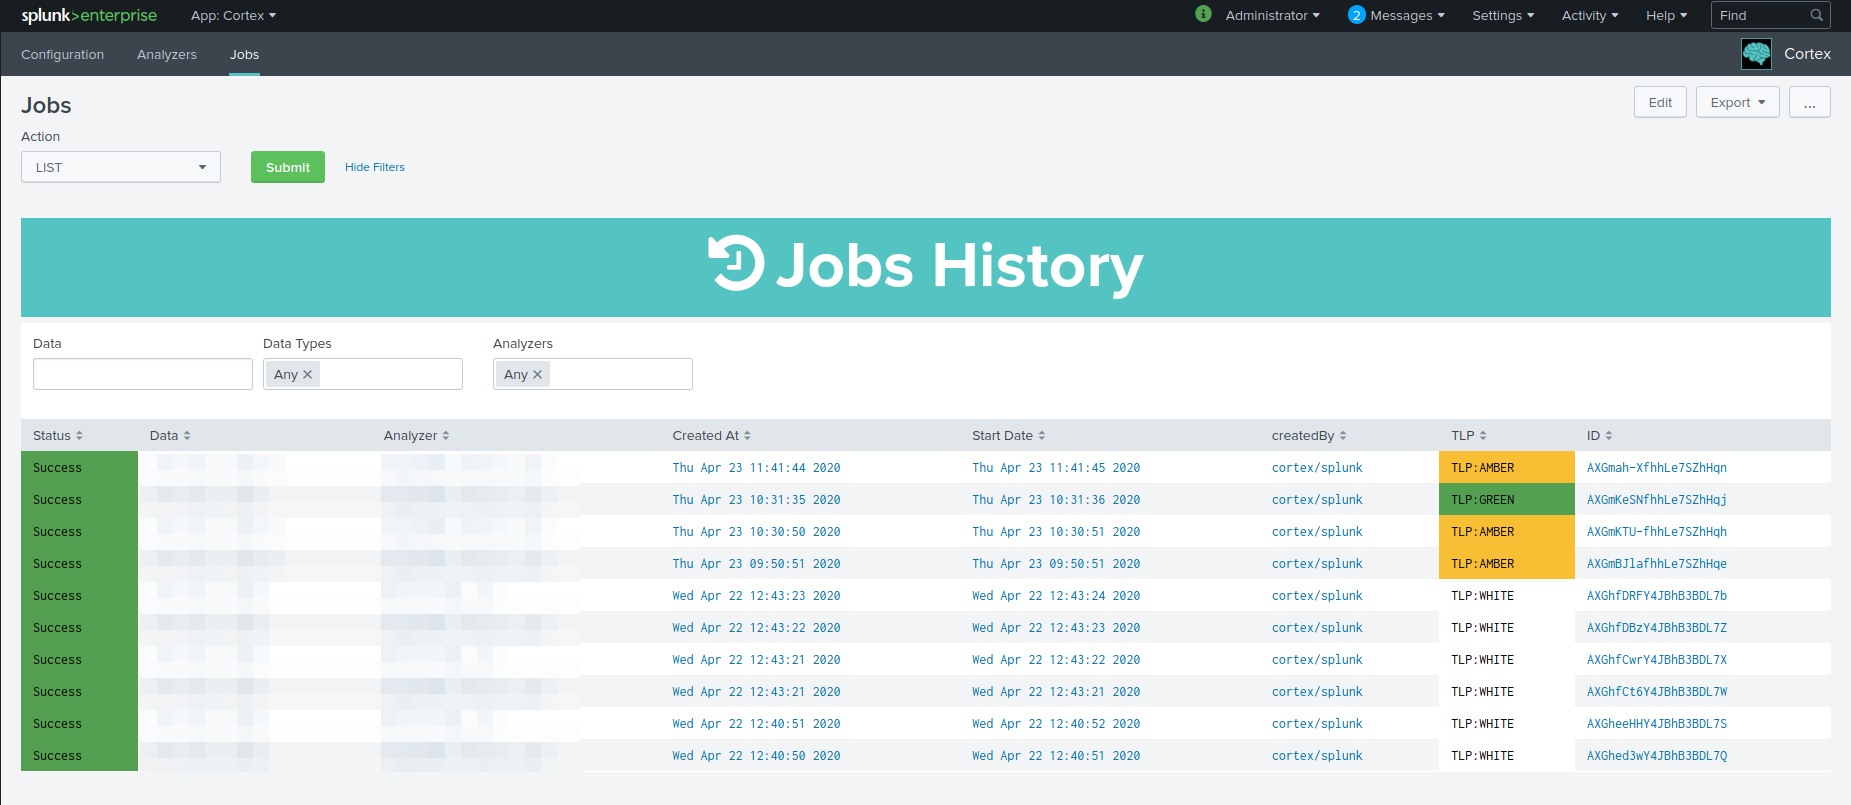
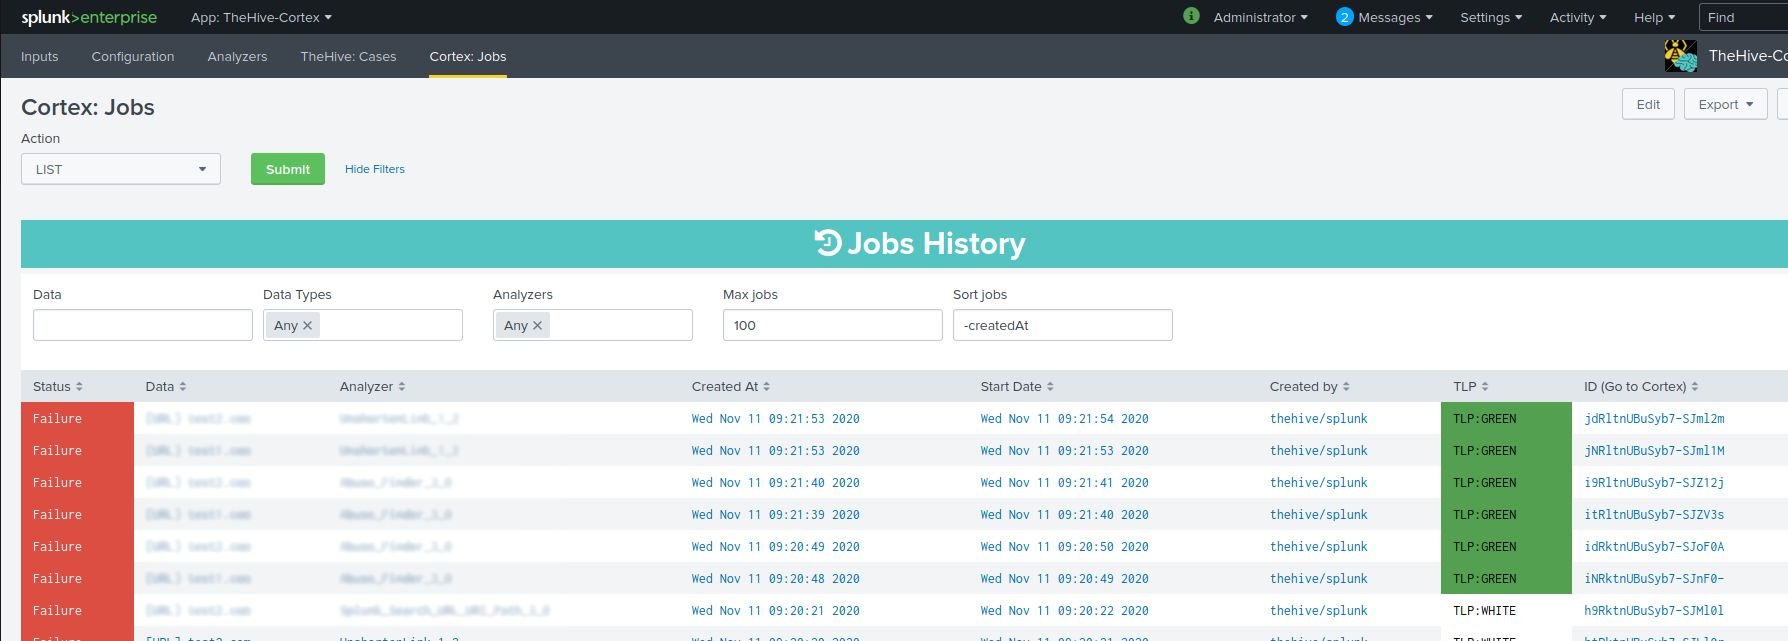
Update documentation

diff --git a/README.md b/README.md
@@ -1,18 +1,24 @@
+
 ![](images/logo.png)
 
 # Table of content
 * [ Introduction ](#introduction)  
-* [ What is Cortex ? ](#what-is-cortex-)
+* [ What is TheHive/Cortex ? ](#what-is-thehivecortex-)
 * [ Use Cases ](#use-cases)
 * [ Installation ](#installation)
 	* [ Requirements ](#requirements)
 	* [ Configuration ](#configuration)
+		* [ Add-on Settings ](#add-on-settings)
+		* [ TheHive ](#thehive)
 		* [ Cortex ](#cortex)
 		* [ Logging ](#logging)
-	* [ Refresh the available analyzers ](#refresh-the-available-analyzers)
+	* [ Refreshing the available analyzers ](#refreshing-the-available-analyzers)
 * [ Usage ](#usage)
-	* [ Cortex "Jobs" dashboard ](#cortex-jobs-dashboard)
-		* [ History ](#history)
+	* ["TheHive: Cases" dashboard](#thehive-cases-dashboard)
+		* [ TheHive History ](#thehive-history)
+		* [ Create a new case ](#create-a-new-case)
+	* [ "Cortex: Jobs" dashboard ](#cortex-jobs-dashboard)
+		* [ Cortex History ](#cortex-history)
 		* [ Run new tasks ](#run-new-tasks)
 	* [ Commands in searches ](#commands-in-searches)
 * [ Support ](#support)
@@ -20,60 +26,96 @@
 * [ Licence ](#licence)
 
 # Introduction
-This TA allows to **add interaction features** between [TheHive or Cortex (TheHive project)](https://thehive-project.org/) and Splunk. It allows to retrieve all tasks in Cortex and to execute new tasks from Splunk, from a search or from a predefined dashboard.
+This TA allows to **add interaction features** between [TheHive or Cortex (TheHive project)](https://thehive-project.org/) and Splunk. It allows to retrieve all cases/jobs information from TheHive/Cortex and to perform actions on these instances using Splunk, from a search or from a predefined dashboard.
 All data types work with the exception of "file" because Splunk does not allow to send a file easily.
 
 **Note**:
 It's working using Python3 with the official cortex4api library included.
 **A support was added to use Python2**. This is not an official library, it's a syntactically-revised version.
-In other words, **it's working for Splunk 7.2 and higher versions**.
+This application is not available for Splunk version<8.0 due to modular input issue not resolved yet (if you are interested, you can take a look 😉) 
+In other words, **it's working for Splunk 8.0 and higher versions**.
 
-# What is Cortex ?
+# What is TheHive/Cortex ?
 If you need more information about TheHive/Cortex project, please [follow this link](https://thehive-project.org/).
-You can find the related [Github here](https://github.com/TheHive-Project/Cortex).
+You can find the related [TheHive Github here](https://github.com/TheHive-Project/TheHive) and [Cortex Github here](https://github.com/TheHive-Project/Cortex) .
 
 # Use Cases
-The objective is to interface a SIEM tool such as Splunk in order to be able to perform automated tasks on IOCs.
+The objective is to interface a SIEM tool such as Splunk in order to be able to perform automated tasks on observables/IOCs.
 This TA has been designed in such a way that :
-* You can retrieve information from Cortex about the different tasks that are being performed on the scanners.
+* You can retrieve information from TheHive about the different cases that were created
+* You can retrieve information from Cortex about the different jobs that are being performed on the scanners.
+* You can create new case from Splunk in TheHive using the power of Splunk whether in a search or in a predefined dashboard.
 * You can run new tasks from Splunk in Cortex using the power of Splunk whether in a search or a predefined dashboard.
 
 # Installation
 ## Requirements
 This application contains all the python libraries to work autonomously.
 
-**However**, a predefined dashboard of the application requires the installation of this application : [Status Indicator - Custom Visualization](https://splunkbase.splunk.com/app/3119/)
+**However**, predefined dashboards of the application requires the installation of this application : [Status Indicator - Custom Visualization](https://splunkbase.splunk.com/app/3119/)
 
-You should create a specific user and organization in your Cortex instance to interact with Splunk.
+You should create a specific user and organization in your TheHive/Cortex instances to interact with Splunk.
 
 ## Configuration
 
+### Add-on settings
+First thing you have to do is to configure a valid Splunk account.
+When you add a new Cortex instance, analyzers will be recovered and need to be stored on a KV Store. To do that, the script need to have access to Splunk to perform the storage.
+We advise you to use a specific local account for this application (not an admin one)
+1. Go to the **TheHive/Cortex application > Configuration** (in the navigation bar)
+2. Under **Add-on Settings**, You need to fill the following settings:
+* Splunk: Username
+* Splunk: Password
+![](images/additional_parameters.png)
+
+*Note*: This will be probably removed in a future version of the application and use instead a CSV lookup.
+### TheHive
+Once you've set the add-on settings, you must configure your TheHive instance :
+
+1. Go to the **TheHive/Cortex application > Inputs** (in the navigation bar)
+2. Click on the right on **Create New Input > TheHive: Supervisor**
+3. You need to specify the following settings :
+
+* **Name**: Choose a custom name for your input
+* **Interval**: An integer representing the interval time in seconds for the supervisor script. This script will be executed to check if the connection is OK.
+* **Index**: Choose an index in which the supervisor will log the result of the connection. The sourcetype used by this script is **"thehive:supervisor"**.
+* **TheHive: Protocol**: Choose "http" or "https"
+* **TheHive: Host**: Hostname/IP of the TheHive instance
+* **TheHive: Port**: Port used by TheHive
+* **TheHive: API Key**: Corresponds to the API key used by the user/organization to be used (the user/organization will be determined automatically by TheHive)
+
+![](images/configure_thehive.png)
+
+*Note*: You can create several instances of TheHive/Cortex but it's not well supported by the entire application for the moment. Please define only one instance of TheHive for the moment.
+
 ### Cortex
-Once you've downloaded this application, you must configure your Cortex instance :
+Once you've set the add-on settings, you must configure your Cortex instance :
 
-1. Go to the **Cortex application > Configuration** (in the navigation bar)
-2. You need to specify the following settings :
+1. Go to the **TheHive/Cortex application > Inputs** (in the navigation bar)
+2. Click on the right on **Create New Input > Cortex: Supervisor**
+3. You need to specify the following settings :
 
-* **Protocol**: Choose "http" or "https"
-* **Host**: Hostname/IP of the Cortex instance
-* **Port**: Port used by Cortex
-* **API Key**: Corresponds to the API key used by the user/organization to be used (the user/organization will be determined automatically by Cortex)
+* **Name**: Choose a custom name for your input
+* **Interval**: An integer representing the interval time in seconds for the supervisor script. This script will be executed to check if the connection is OK and recover the list of analyzers (to keep it up to date).
+* **Index**: Choose an index in which the supervisor will log the result of the connection. The sourcetype used by this script is **"cortex:supervisor"**.
+* **Cortex: Protocol**: Choose "http" or "https"
+* **Cortex: Host**: Hostname/IP of the Cortex instance
+* **Cortex: Port**: Port used by Cortex
+* **Cortex: API Key**: Corresponds to the API key used by the user/organization to be used (the user/organization will be determined automatically by Cortex)
 
-![](images/configure.png)
+![](images/configure_cortex.png)
+
+*Note*: You can create several instances of TheHive/Cortex but it's not well supported by the entire application for the moment. Please define only one instance of Cortex for the moment.
 
 ### Logging
 
-You can enable a "debug" logging mode to have more information in searches/logs.
+You can enable a "debug" logging mode (under **Configuration**) to have more information in searches/logs.
 By default, a logging file is created under `$SPLUNK_HOME/var/log/splunk/` with the file name starting with "command_"
 
 You will be able to have these logs in your search.log.
 
-## Refresh the available analyzers
-Once you've configured these settings, you can refresh the list of analyzers in the application.
-
-1. Go to the **Cortex application > Analyzers** (in the navigation bar)
-2. Click on the **Refresh Analyzers** button on the top-right
-3. After a while, a message indicating that "your analyzers have been reloaded" should appear with the current date. You should see the list of analyzers on the search below.
+## Refreshing the available analyzers
+Once you've configured your Cortex input, the list of analyzers will be loaded in Splunk.
+Each time the supervisor script is checking the connection, it will recover the list of analyzers to keep it up to date.
 
 ![](images/analyzers.png)
 
@@ -83,14 +125,62 @@ These information are stored in Splunk in order to have a mapping between availa
 
 
 # Usage
-Once the application is configured and the analyzers are loaded, you have several options for interfacing with Cortex.
-## Cortex "Jobs" dashboard
+Once the application is configured and the analyzers are loaded, you have several options for interfacing with TheHive/Cortex.
+## "TheHive: Cases" dashboard
+The application integrates a preconfigured dashboard with searches allowing you to easily interface with TheHive.
+
+![](images/cases_list.png)
+
+### TheHive History
+You can retrieve the history of cases in TheHive using the action "LIST".
+For each job, you can see :
+* **TLP**: TLP of the case
+* **Title**: Title of the case
+* **Tags**: Tags of the case
+* **Severity**: Severity of the case
+* **Tasks**: Tasks of the case by status
+* **Observables**: Number of observables for the case
+* **Assignee**: Current assignee for the case
+* **Start Date**: Date and time for the start of the case
+* **Metrics**: Current metrics for the case
+* **Custom Fields**: Current custom fields for the case
+* **Status**: Current status for the case with detailed resolution
+* **ID**: ID of the job
+
+**Note: You can click on the ID to view the result of the job directly on TheHive** (you should be authenticated to TheHive)
+
+You can set filters for the history:
+* **Keyword**: A keyword to search on
+* **Status**: Status of the case
+* **Severity**: Severity of the case
+* **Tags**: Tags of the case
+* **Title**: Title of the case
+* **Assignee**: Assignee of the case
+* **Date**: Creation date of the case
+
+### Create a new case
+You can create a new case from Splunk using the "CREATE" action.
+
+![](images/cases_create.png)
+
+You have to specify some inputs:
+* **Title**: Title for this new case
+* **Severity**: Severity for this new case
+* **Tags**: Tags for this new case (they are added by specifiying values in the "Enter a new tag" input)
+* **Tasks**  Tasks for this new case (they are added by specifying values in the "Enter a new task" input)
+* **TLP**: TLP for this new case
+* **PAP**: PAP for this new case
+* **Description**: Description for this new case
+
+The search will create the new case and return information such as the job ID.
+
+## "Cortex: Jobs" dashboard
 The application integrates a preconfigured dashboard with searches allowing you to easily interface with Cortex.
 
 ![](images/jobs_list.png)
 
-### History
-You can retrieve the history of jobs in Cortex using the action "LIST". By default, it's recovering the last 10 jobs.
+### Cortex History
+You can retrieve the history of jobs in Cortex using the action "LIST".
 For each job, you can see :
 * **Status**: Current status for the job
 * **Data**: Data and datatype for the job
@@ -101,7 +191,7 @@ For each job, you can see :
 * **TLP**: TLP specified for the job
 * **ID**: ID of the job
 
-**Note: You can click on the link to view the result of the job directly on Cortex** (you should be authenticated to Cortex)
+**Note: You can click on the ID to view the result of the job directly on Cortex** (you should be authenticated to Cortex)
 
 You can set filters for the history:
 * **Data**: filtering the "data" field, regular expressions are not working, it must be the exact match string
